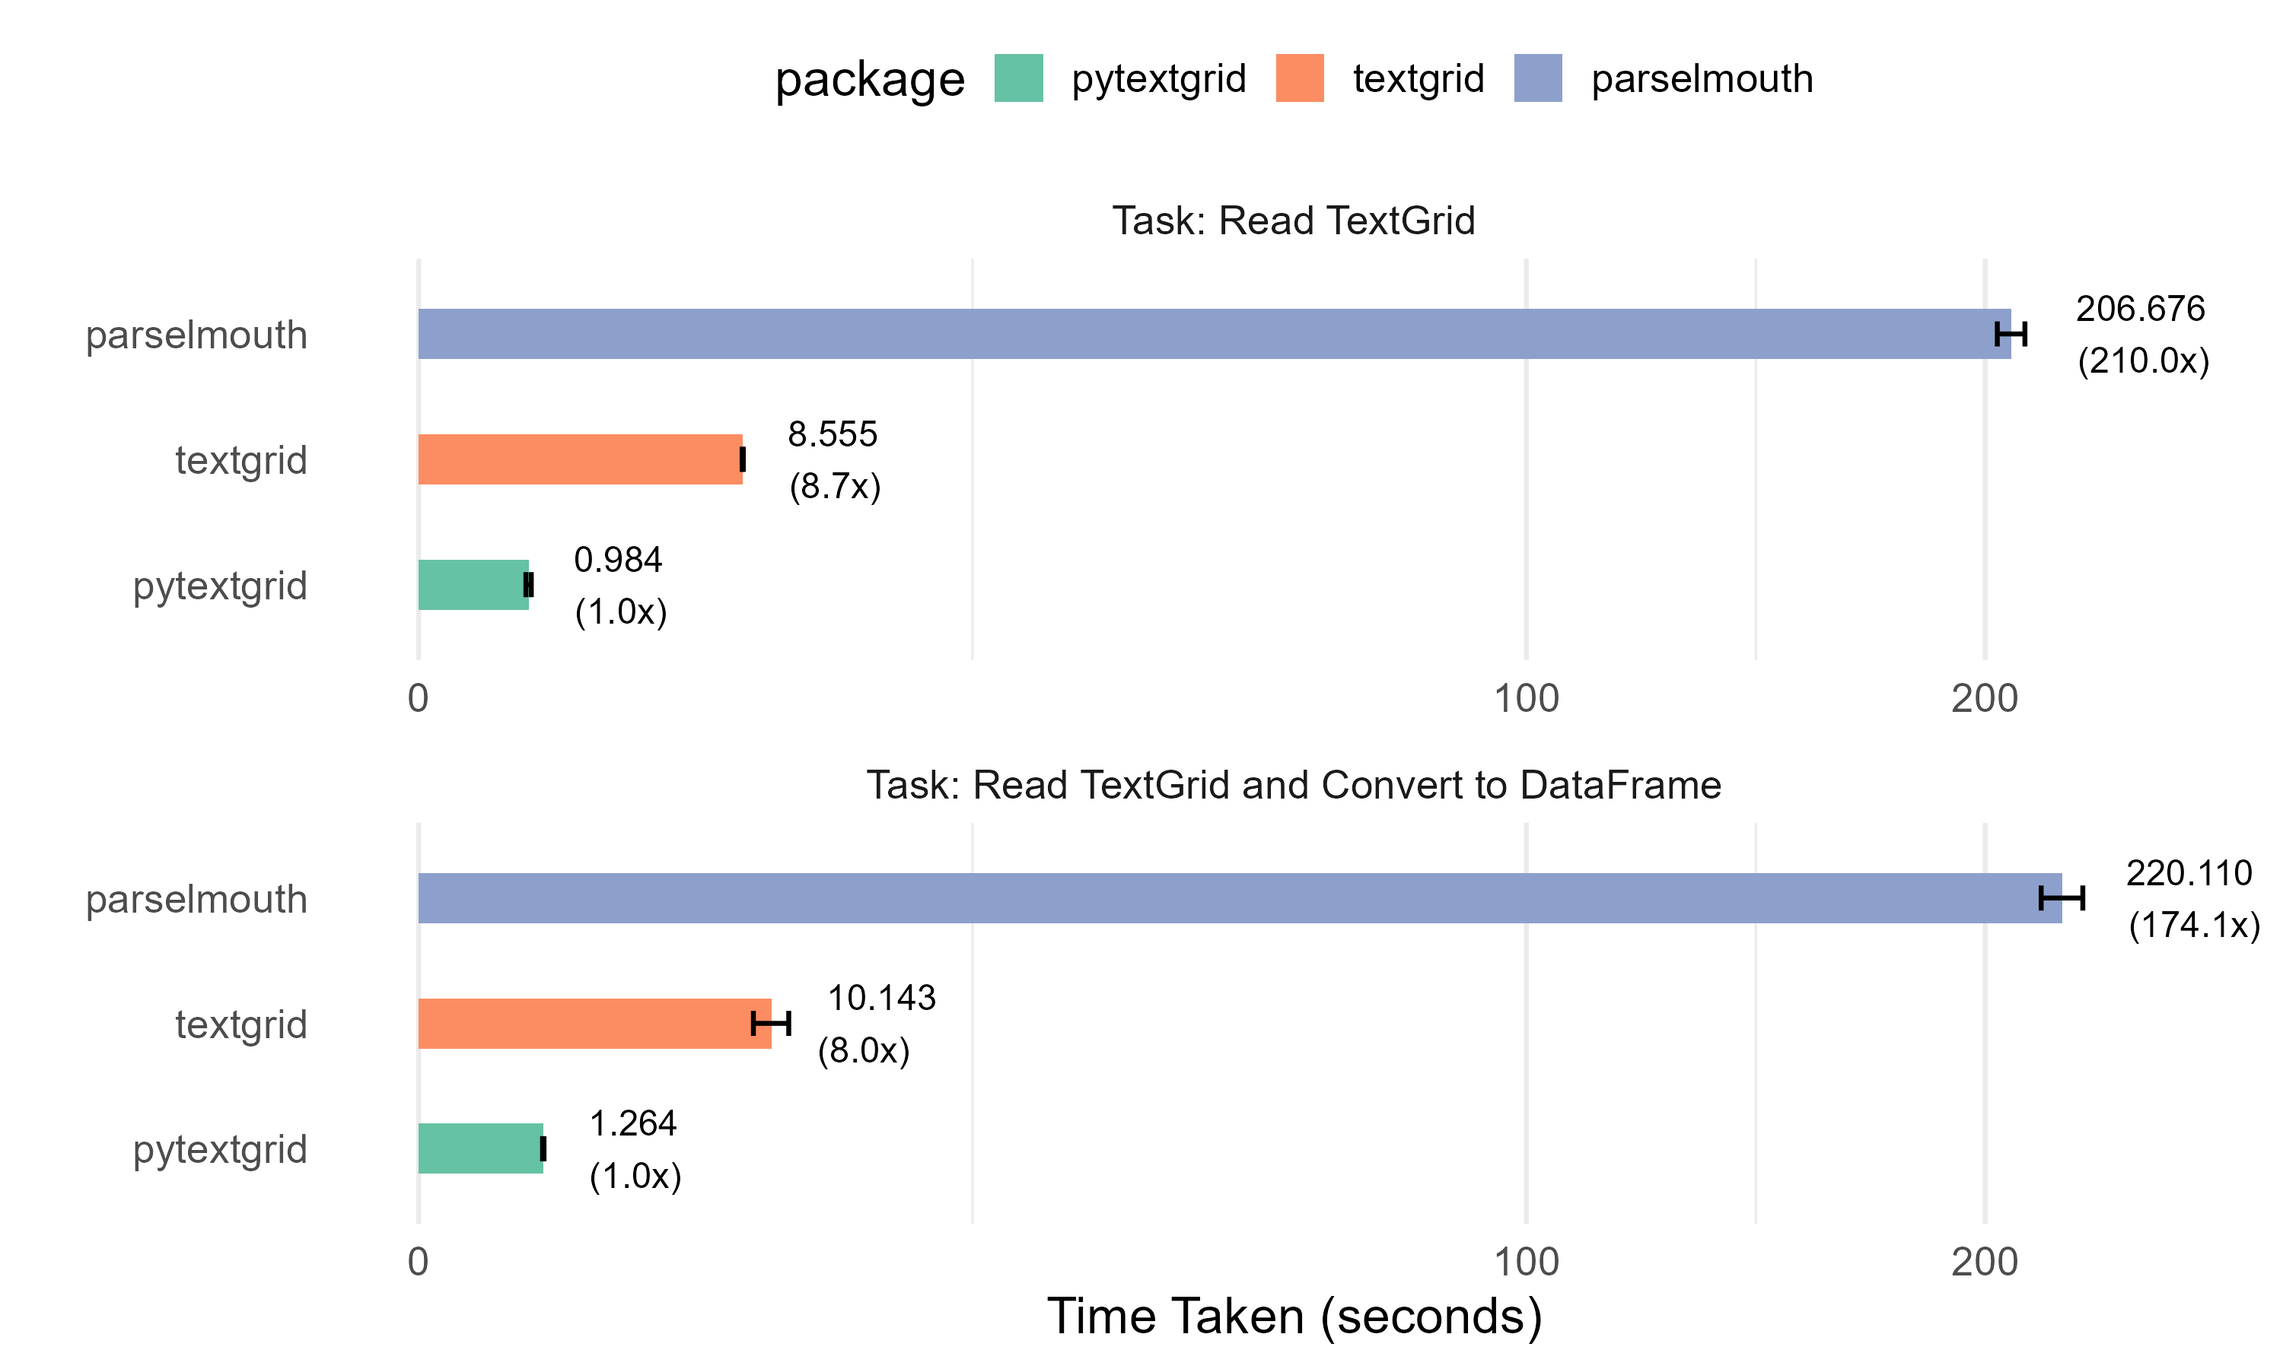
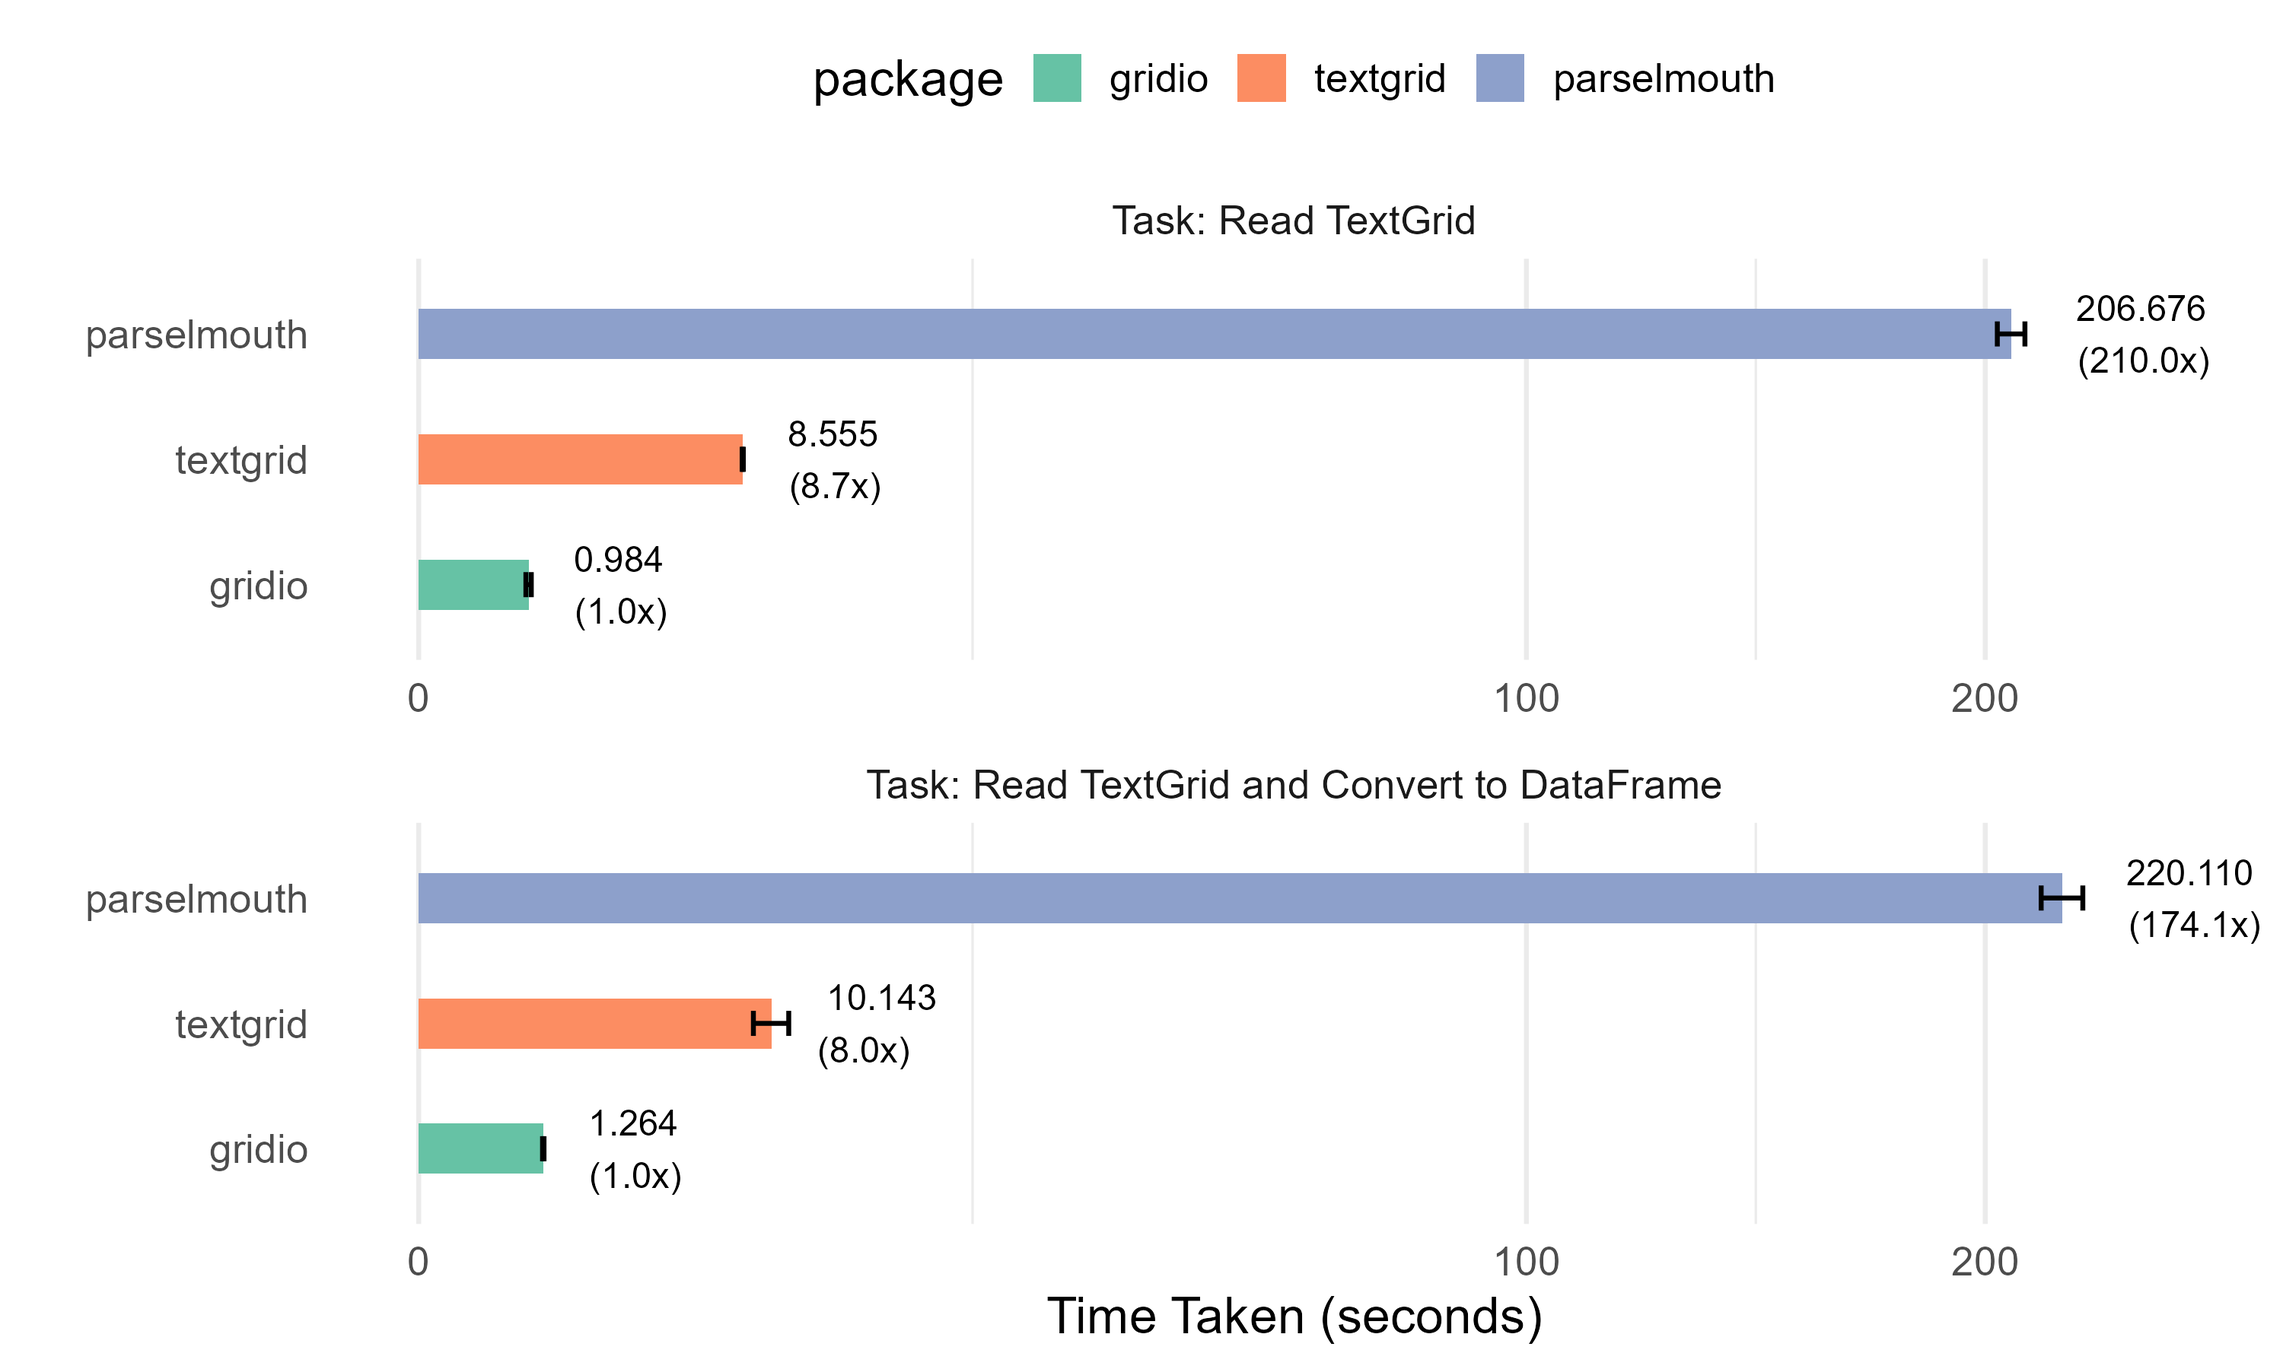
rename to gridio since duplicate on pypi

Changed region(s): [[0.341, 0.0311, 0.806, 0.0933], [0.062, 0.8089, 0.124, 0.8711], [0.062, 0.4044, 0.124, 0.4356]]

diff --git a/benchmarks/benchmark.py b/benchmarks/benchmark.py
@@ -13,9 +13,9 @@ from benchmarks.impls import *
 
 
 METHODS = {
-    "pytextgrid": {
-        "construct": pytextgrid_construct,
-        "to_df": pytextgrid_to_df,
+    "gridio": {
+        "construct": gridio_construct,
+        "to_df": gridio_to_df,
     },
     "textgrid": {
         "construct": textgrid_construct,
@@ -32,7 +32,7 @@ def run_benchmarks(
     files: list[Path],
     repeats: int,
     tasks: list[str] = ["construct", "to_df"],
-    packages: list[str] = ["pytextgrid", "textgrid", "parselmouth"],
+    packages: list[str] = ["gridio", "textgrid", "parselmouth"],
 ) -> pd.DataFrame:
     records = []
     for task, package in tqdm(list(product(tasks, packages))):
@@ -77,7 +77,7 @@ if __name__ == "__main__":
             files,
             repeats=5,
             tasks=["construct", "to_df"],
-            packages=["pytextgrid", "textgrid", "parselmouth"],
+            packages=["gridio", "textgrid", "parselmouth"],
         )
         results.to_csv("benchmarks/results/all.csv", index=False)
     finally:

diff --git a/gridio/__init__.py b/gridio/__init__.py
@@ -1,13 +1,13 @@
 """High-level helpers for converting Praat TextGrid files.
 
 These wrappers expose the Rust-backed parsing and serialization
-implemented in :mod:`pytextgrid.pytextgrid` and provide convenient
+implemented in :mod:`gridio.gridio` and provide convenient
 Pythonic utilities for turning TextGrid content into tabular or nested
 data structures and writing them back to disk.
 """
 
 # Here we provide some wrapper functions for Rust implementations
-from .pytextgrid import (
+from .gridio import (
     textgrid2vectors as rc_tg2vecs,
     textgrids2vectors as rc_tgs2vecs,
     textgrid2data as rc_tg2data,
@@ -30,7 +30,7 @@ if TYPE_CHECKING:  # pragma: no cover - for type checkers only
     )
 
 
-__version__ = "1.0.0"
+__version__ = "1.0.1"
 
 
 def _file_name(

diff --git a/benchmarks/impls.py b/benchmarks/impls.py
@@ -2,13 +2,13 @@ from functools import partial
 
 import parselmouth
 import textgrid as textgrid_pkg
-import pytextgrid as pytextgrid_pkg
+import gridio as gridio_pkg
 
 import pandas as pd
 
 
-def pytextgrid_construct(fnames):
-    return pytextgrid_pkg.TextGrid.from_file(fnames)
+def gridio_construct(fnames):
+    return gridio_pkg.TextGrid.from_file(fnames)
 
 
 def textgrid_construct(fnames):
@@ -57,8 +57,8 @@ def parselmouth_construct(fnames):
     return data_list
 
 
-def pytextgrid_to_df(fnames):
-    return pytextgrid_pkg.textgrid_to_df(fnames, strict=False, file_type="long")
+def gridio_to_df(fnames):
+    return gridio_pkg.textgrid_to_df(fnames, strict=False, file_type="long")
 
 
 def textgrid_to_df(fnames):

diff --git a/tests/test_dataframe_conversion.py b/tests/test_dataframe_conversion.py
@@ -2,8 +2,8 @@ from pathlib import Path
 
 import pytest
 
-from pytextgrid import df_to_textgrid, textgrid_to_df
-from pytextgrid.textgrid import TextGrid
+from gridio import df_to_textgrid, textgrid_to_df
+from gridio.textgrid import TextGrid
 
 DATA_DIR = Path(__file__).parent.parent / "data"
 LONG_TG = DATA_DIR / "long_format.TextGrid"

diff --git a/src/lib.rs b/src/lib.rs
@@ -4,7 +4,7 @@
 /// and converting Praat TextGrid files using Rust bindings. It supports both
 /// long and short TextGrid formats and offers efficient batch processing capabilities.
 #[pyo3::pymodule]
-mod pytextgrid {
+mod gridio {
     use numpy::{IntoPyArray, PyArray1};
     use pyo3::prelude::*;
 

diff --git a/gridio/textgrid.py b/gridio/textgrid.py
@@ -1,5 +1,5 @@
 # This is an OOP wrapper
-from pytextgrid import textgrid_to_data, data_to_textgrid
+from gridio import textgrid_to_data, data_to_textgrid
 from typing import Optional, Union, Iterable, Iterator, Tuple, List, Dict, Any, Literal
 from pathlib import Path
 

diff --git a/tests/test_textgrid_wrapper.py b/tests/test_textgrid_wrapper.py
@@ -1,6 +1,6 @@
 import os
 from pathlib import Path
-from pytextgrid.textgrid import (
+from gridio.textgrid import (
     TextGrid,
     IntervalTier,
     PointTier,

diff --git a/benchmarks/make_textgrid.py b/benchmarks/make_textgrid.py
@@ -1,5 +1,5 @@
 from pathlib import Path
-from pytextgrid import data_to_textgrid
+from gridio import data_to_textgrid
 
 
 def generate_items(

diff --git a/README.md b/README.md
@@ -1,11 +1,11 @@
-# pytextgrid
+# gridio
 
-Rust-powered TextGrid parsing for Python. `pytextgrid` offers user-friendly APIs with high performance for manipulating Praat TextGrid files.
+Rust-powered TextGrid parsing for Python. `gridio` offers user-friendly APIs with high performance for manipulating Praat TextGrid files.
 
-## Why pytextgrid?
+## Why gridio?
 
-- **High Performance** – Built with Rust, `pytextgrid` is designed for speed and efficiency, outperforming pure Python implementations as well as bindings to Praat's C++ core.
-- **Flexible APIs** – Whether you prefer working with DataFrames, object-oriented structures, or JSON-like data, `pytextgrid` has you covered.
+- **High Performance** – Built with Rust, `gridio` is designed for speed and efficiency, outperforming pure Python implementations as well as bindings to Praat's C++ core.
+- **Flexible APIs** – Whether you prefer working with DataFrames, object-oriented structures, or JSON-like data, `gridio` has you covered.
 
 ## Quick Start
 
@@ -14,7 +14,7 @@ Rust-powered TextGrid parsing for Python. `pytextgrid` offers user-friendly APIs
 No structures. No classes. Just load and save DataFrames.
 
 ```python
-from pytextgrid import textgrid_to_df, df_to_textgrid
+from gridio import textgrid_to_df, df_to_textgrid
 
 df = textgrid_to_df("data/short_format.TextGrid")
 print(df.head())
@@ -27,7 +27,7 @@ df_to_textgrid(df, "output.TextGrid", file_type="short")
 You can manipulate TextGrid files with a OOP-style API.
 
 ```python
-from pytextgrid import TextGrid, Tier, IntervalItem
+from gridio import TextGrid, Tier, IntervalItem
 
 tg: TextGrid = TextGrid.from_file("data/long_format.TextGrid")
 phones: Tier = tg.get_tier("phone")
@@ -44,7 +44,7 @@ tg.save("edited.TextGrid", file_type="long")
 With `textgrid_to_data` and `data_to_textgrid`, convert between TextGrid files and nested lists/dicts. They're easy to serialize (e.g., to JSON) and manipulate programmatically.
 
 ```python
-from pytextgrid import textgrid_to_data, data_to_textgrid
+from gridio import textgrid_to_data, data_to_textgrid
 
 data = textgrid_to_data("data/long_format.TextGrid")
 print(data[0], data[1])  # global tmin/tmax
@@ -58,14 +58,14 @@ data_to_textgrid(data, "copy.TextGrid")
 ## Install
 
 ```bash
-pip install pytextgrid
+pip install gridio
 # or from source
 maturin develop
 ```
 
 ## Benchmarks
 
-We benchmark `pytextgrid` against two popular TextGrid parsing libraries: `textgrid` (a pure Python implementation) and `parselmouth` (Python bindings for Praat). 
+We benchmark `gridio` against two popular TextGrid parsing libraries: `textgrid` (a pure Python implementation) and `parselmouth` (Python bindings for Praat). 
 
 The benchmarks focus on two common tasks: 
 - constructing in-memory TextGrid objects
@@ -73,13 +73,13 @@ The benchmarks focus on two common tasks:
 
 The results are summarized below:
 
-| Package        | Task      | Mean (s) | Std Dev (s) | Speedup |
-| -------------- | --------- | -------- | ----------- | ------- |
-| **pytextgrid** | construct | 0.984    | 0.042       | 1.0x    |
-| textgrid       | construct | 8.555    | 0.031       | 8.7x    |
-| parselmouth    | construct | 206.68   | 3.39        | 210.0x  |
-| **pytextgrid** | to_df     | 1.264    | 0.014       | 1.0x    |
-| textgrid       | to_df     | 10.143   | 0.945       | 8.0x    |
-| parselmouth    | to_df     | 220.11   | 5.23        | 174.1x  |
+| Package     | Task      | Mean (s) | Std Dev (s) | Speedup |
+| ----------- | --------- | -------- | ----------- | ------- |
+| **gridio**  | construct | 0.984    | 0.042       | 1.0x    |
+| textgrid    | construct | 8.555    | 0.031       | 8.7x    |
+| parselmouth | construct | 206.68   | 3.39        | 210.0x  |
+| **gridio**  | to_df     | 1.264    | 0.014       | 1.0x    |
+| textgrid    | to_df     | 10.143   | 0.945       | 8.0x    |
+| parselmouth | to_df     | 220.11   | 5.23        | 174.1x  |
 
 ![Benchmark Results](benchmarks/results/benchmark_plot.png)

diff --git a/docs/index.md b/docs/index.md
@@ -1,11 +1,11 @@
-# pytextgrid
+# gridio
 
-Rust-powered TextGrid parsing for Python. `pytextgrid` offers user-friendly APIs with high performance for manipulating Praat TextGrid files.
+Rust-powered TextGrid parsing for Python. `gridio` offers user-friendly APIs with high performance for manipulating Praat TextGrid files.
 
-## Why pytextgrid?
+## Why gridio?
 
-- **High Performance** – Built with Rust, `pytextgrid` is designed for speed and efficiency, outperforming pure Python implementations as well as bindings to Praat's C++ core.
-- **Flexible APIs** – Whether you prefer working with DataFrames, object-oriented structures, or JSON-like data, `pytextgrid` has you covered.
+- **High Performance** – Built with Rust, `gridio` is designed for speed and efficiency, outperforming pure Python implementations as well as bindings to Praat's C++ core.
+- **Flexible APIs** – Whether you prefer working with DataFrames, object-oriented structures, or JSON-like data, `gridio` has you covered.
 
 ## Quick Start
 
@@ -14,7 +14,7 @@ Rust-powered TextGrid parsing for Python. `pytextgrid` offers user-friendly APIs
 No structures. No classes. Just load and save DataFrames.
 
 ```python
-from pytextgrid import textgrid_to_df, df_to_textgrid
+from gridio import textgrid_to_df, df_to_textgrid
 
 df = textgrid_to_df("data/short_format.TextGrid")
 print(df.head())
@@ -27,7 +27,7 @@ df_to_textgrid(df, "output.TextGrid", file_type="short")
 You can manipulate TextGrid files with a OOP-style API.
 
 ```python
-from pytextgrid import TextGrid, Tier, IntervalItem
+from gridio import TextGrid, Tier, IntervalItem
 
 tg: TextGrid = TextGrid.from_file("data/long_format.TextGrid")
 phones: Tier = tg.get_tier("phone")
@@ -44,7 +44,7 @@ tg.save("edited.TextGrid", file_type="long")
 With `textgrid_to_data` and `data_to_textgrid`, convert between TextGrid files and nested lists/dicts. They're easy to serialize (e.g., to JSON) and manipulate programmatically.
 
 ```python
-from pytextgrid import textgrid_to_data, data_to_textgrid
+from gridio import textgrid_to_data, data_to_textgrid
 
 data = textgrid_to_data("data/long_format.TextGrid")
 print(data[0], data[1])  # global tmin/tmax
@@ -58,14 +58,14 @@ data_to_textgrid(data, "copy.TextGrid")
 ## Install
 
 ```bash
-pip install pytextgrid
+pip install gridio
 # or from source
 maturin develop
 ```
 
 ## Benchmarks
 
-We benchmark `pytextgrid` against two popular TextGrid parsing libraries: `textgrid` (a pure Python implementation) and `parselmouth` (Python bindings for Praat). 
+We benchmark `gridio` against two popular TextGrid parsing libraries: `textgrid` (a pure Python implementation) and `parselmouth` (Python bindings for Praat). 
 
 The benchmarks focus on two common tasks: 
 - constructing in-memory TextGrid objects
@@ -73,13 +73,13 @@ The benchmarks focus on two common tasks:
 
 The results are summarized below:
 
-| Package        | Task      | Mean (s) | Std Dev (s) | Speedup |
-| -------------- | --------- | -------- | ----------- | ------- |
-| **pytextgrid** | construct | 0.984    | 0.042       | 1.0x    |
-| textgrid       | construct | 8.555    | 0.031       | 8.7x    |
-| parselmouth    | construct | 206.68   | 3.39        | 210.0x  |
-| **pytextgrid** | to_df     | 1.264    | 0.014       | 1.0x    |
-| textgrid       | to_df     | 10.143   | 0.945       | 8.0x    |
-| parselmouth    | to_df     | 220.11   | 5.23        | 174.1x  |
+| Package     | Task      | Mean (s) | Std Dev (s) | Speedup |
+| ----------- | --------- | -------- | ----------- | ------- |
+| **gridio**  | construct | 0.984    | 0.042       | 1.0x    |
+| textgrid    | construct | 8.555    | 0.031       | 8.7x    |
+| parselmouth | construct | 206.68   | 3.39        | 210.0x  |
+| **gridio**  | to_df     | 1.264    | 0.014       | 1.0x    |
+| textgrid    | to_df     | 10.143   | 0.945       | 8.0x    |
+| parselmouth | to_df     | 220.11   | 5.23        | 174.1x  |
 
 ![Benchmark Results](figures/benchmark_plot.png)

diff --git a/docs/benchmarks.md b/docs/benchmarks.md
@@ -2,7 +2,7 @@
 
 This document presents performance benchmarks comparing three popular Python libraries for parsing Praat TextGrid files:
 
-1. **pytextgrid** (this project, backed by Rust bindings)
+1. **gridio** (this project, backed by Rust bindings)
 2. **textgrid** (pure Python implementation)
 3. **parselmouth** (Python bridge to Praat''s C++ core)
 
@@ -17,19 +17,19 @@ These tasks represent typical use cases in phonetic research, where researchers 
 
 ## Implementation Details
 
-### pytextgrid
+### gridio
 
 ```python
-import pytextgrid
+import gridio
 
 # Task 1: construct - Parse and create TextGrid objects
-textgrids = pytextgrid.TextGrid.from_file(file_list)
+textgrids = gridio.TextGrid.from_file(file_list)
 
 # Task 2: to_df - Parse and convert to DataFrame
-df = pytextgrid.textgrid_to_df(file_list, strict=False, file_type="long")
+df = gridio.textgrid_to_df(file_list, strict=False, file_type="long")
 ```
 
-The `pytextgrid.TextGrid.from_file()` method accepts either a single file path or a list of paths, enabling efficient batch processing with Rust-powered parallelization.
+The `gridio.TextGrid.from_file()` method accepts either a single file path or a list of paths, enabling efficient batch processing with Rust-powered parallelization.
 
 ### textgrid (pure Python)
 
@@ -117,7 +117,7 @@ Benchmarks were conducted on a laptop with the following specifications:
 - **CPU**: 12th Gen Intel® Core™ i5-12500H
 - **RAM**: 16 GB
 - **Python**: 3.12.7 (64-bit)
-- **pytextgrid**: Latest version (Rust-backed)
+- **gridio**: Latest version (Rust-backed)
 - **textgrid**: 1.6.1
 - **parselmouth**: 0.4.5
 - **pandas**: 2.2.3
@@ -132,10 +132,10 @@ The table below shows mean execution time across 5 runs, with standard deviation
 
 | Package     | Task      | Mean (s) | Std Dev (s) | Speedup |
 | ----------- | --------- | -------- | ----------- | ------- |
-| pytextgrid  | construct | 0.984    | 0.042       | 1.0x    |
+| gridio      | construct | 0.984    | 0.042       | 1.0x    |
 | textgrid    | construct | 8.555    | 0.031       | 8.7x    |
 | parselmouth | construct | 206.68   | 3.39        | 210.0x  |
-| pytextgrid  | to_df     | 1.264    | 0.014       | 1.0x    |
+| gridio      | to_df     | 1.264    | 0.014       | 1.0x    |
 | textgrid    | to_df     | 10.143   | 0.945       | 8.0x    |
 | parselmouth | to_df     | 220.11   | 5.23        | 174.1x  |
 
@@ -147,7 +147,7 @@ The table below shows mean execution time across 5 runs, with standard deviation
 
 ### Key Findings
 
-`pytextgrid` dominates both tasks. It's ~8x faster than `textgrid` and over 170x faster than `parselmouth`. You should prefer `pytextgrid` for large-scale TextGrid processing due to its superior performance.
+`gridio` dominates both tasks. It's ~8x faster than `textgrid` and over 170x faster than `parselmouth`. You should prefer `gridio` for large-scale TextGrid processing due to its superior performance.
 
 ## Running the Benchmark
 

diff --git a/docs/api.md b/docs/api.md
@@ -2,7 +2,7 @@
 
 ## Functional Helpers
 
-::: pytextgrid
+::: gridio
     handler: python
     options:
       show_root_heading: true
@@ -16,7 +16,7 @@
 
 ## Object-Oriented API
 
-::: pytextgrid.textgrid
+::: gridio.textgrid
     handler: python
     options:
       show_root_heading: true
